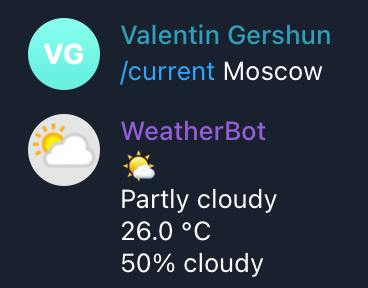
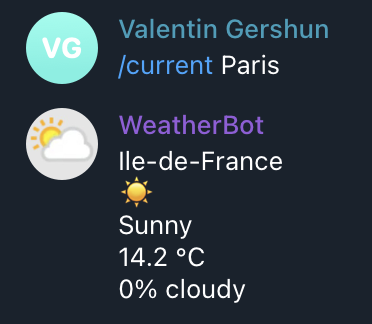
region

Changed region(s): [[0.0598, 0.0312, 0.8967, 0.6562], [0.2989, 0.3438, 0.7772, 0.9688]]

diff --git a/main.py b/main.py
@@ -35,7 +35,8 @@ def current(message):
 
     response = json.loads(response.text)
 
-    response = f'''{weather.emoji_by_weather(response['current']['condition']['code'])}
+    response = f'''{response['location']['region']}
+{weather.emoji_by_weather(response['current']['condition']['code'])}
 {response['current']['condition']['text']}
 {response['current']['temp_c']} °C
 {response['current']['cloud']}% cloudy'''
